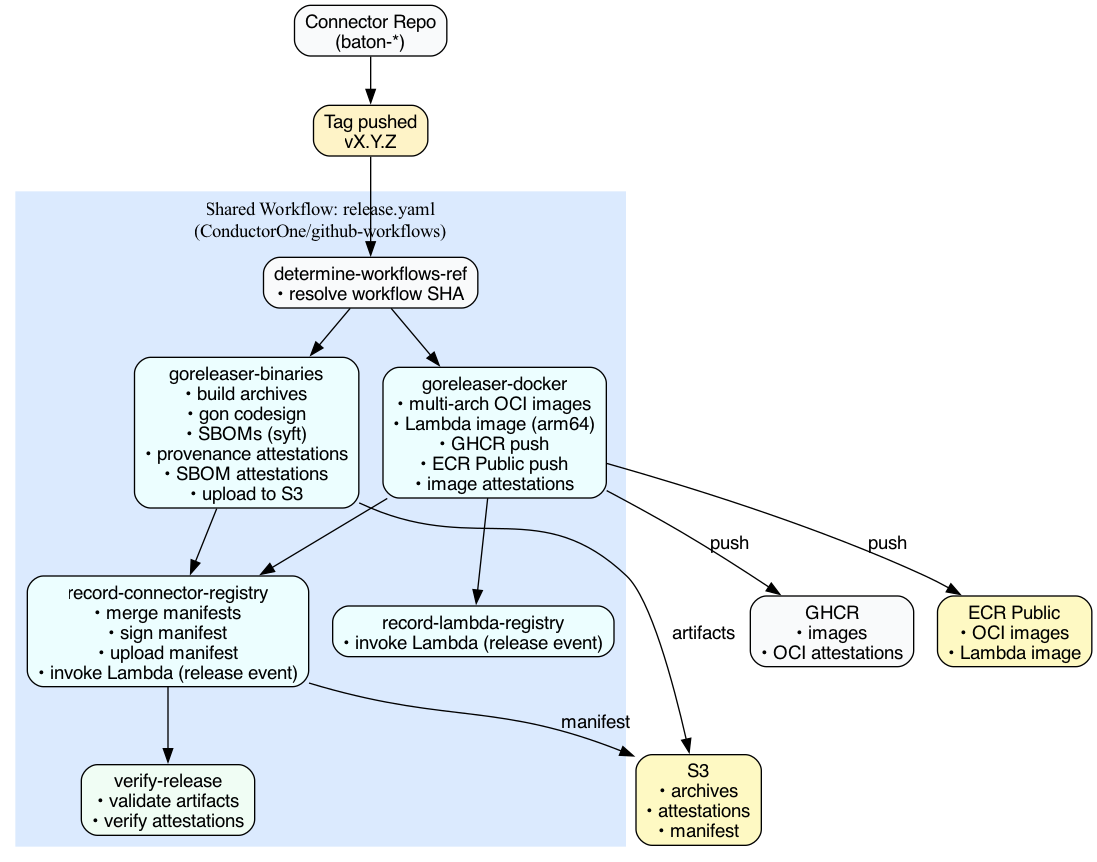
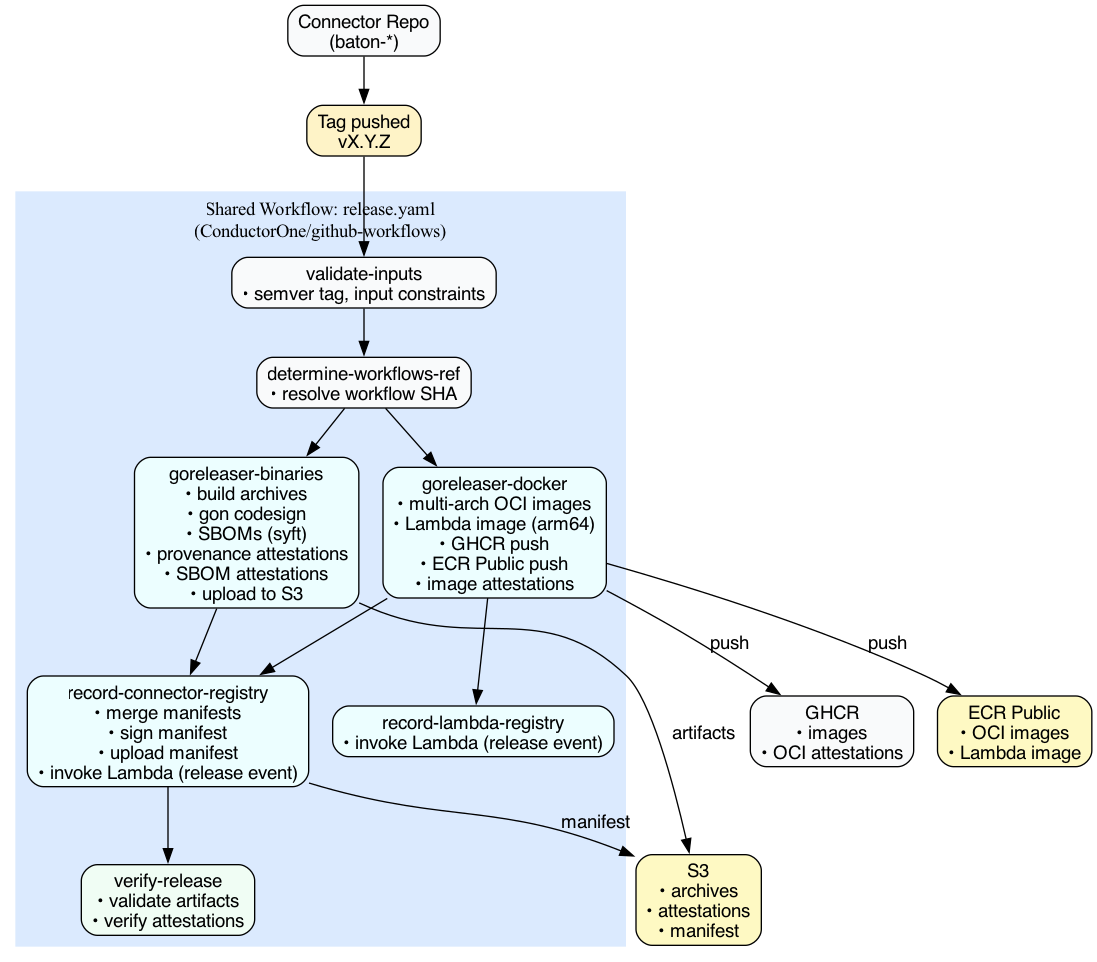
support custom dockerfile optional input

diff --git a/README.md b/README.md
@@ -34,11 +34,12 @@ jobs:
 
 The release workflow accepts the following input parameters:
 
-| Parameter | Required | Default | Description                                  |
-| --------- | -------- | ------- | -------------------------------------------- |
-| `tag`     | Yes      | -       | The release tag (e.g., "v1.0.0")             |
-| `lambda`  | No       | `true`  | Whether to release with Lambda image support |
-| `docker`  | No       | `true`  | Whether to release with Docker image support |
+| Parameter             | Required | Default | Description                                                                |
+| --------------------- | -------- | ------- | -------------------------------------------------------------------------- |
+| `tag`                 | Yes      | -       | The release tag (must be valid semver with `v` prefix, e.g., `v1.0.0`)     |
+| `lambda`              | No       | `true`  | Whether to release with Lambda image support                               |
+| `docker`              | No       | `true`  | Whether to release with Docker image support                               |
+| `dockerfile_template` | No       | `""`    | Path to a custom Dockerfile in your repo (only valid when `lambda: false`) |
 
 2. Ensure your repository has the following secrets configured:
 
@@ -50,6 +51,44 @@ The release workflow accepts the following input parameters:
    - `DATADOG_API_KEY`: Datadog API key for monitoring releases
 
 3. Remove all GoReleaser, gon files, Dockerfile, and Dockerfile.lambda files from your connector repository, if they were previously created there.
+
+### Custom Dockerfiles
+
+For connectors that require a non-standard base image (e.g., Java runtime), you can provide a custom Dockerfile:
+
+```yaml
+jobs:
+  release:
+    uses: ConductorOne/github-workflows/.github/workflows/release.yaml@v4
+    with:
+      tag: ${{ github.ref_name }}
+      lambda: false
+      dockerfile_template: Dockerfile
+    secrets:
+      # ... secrets ...
+```
+
+Your custom Dockerfile must:
+
+1. Use `ARG TARGETPLATFORM` for multi-arch build support
+2. Copy the binary from `${TARGETPLATFORM}/<connector-name>`
+
+Example for a Java-based connector:
+
+```dockerfile
+FROM gcr.io/distroless/java17-debian11:nonroot
+ARG TARGETPLATFORM
+ENTRYPOINT ["/baton-example"]
+
+COPY ${TARGETPLATFORM}/baton-example /baton-example
+COPY java /java
+```
+
+The workflow substitutes `${REPO_NAME}` in your Dockerfile if present, so you can also use:
+
+```dockerfile
+COPY ${TARGETPLATFORM}/${REPO_NAME} /${REPO_NAME}
+```
 
 ## Available Actions
 

diff --git a/docs/release-workflow.md b/docs/release-workflow.md
@@ -17,6 +17,13 @@ When a tag is pushed to a connector repository, the shared release workflow:
 
 ## Jobs
 
+### validate-inputs
+
+Validates workflow inputs before proceeding:
+
+- Ensures tag is valid semver starting with 'v' (e.g., `v1.2.3`)
+- Ensures `dockerfile_template` is only used when `lambda: false`
+
 ### determine-workflows-ref
 
 Resolves the exact SHA of the shared workflow being used. This pinned reference is embedded in all provenance attestations, ensuring verifiability.
